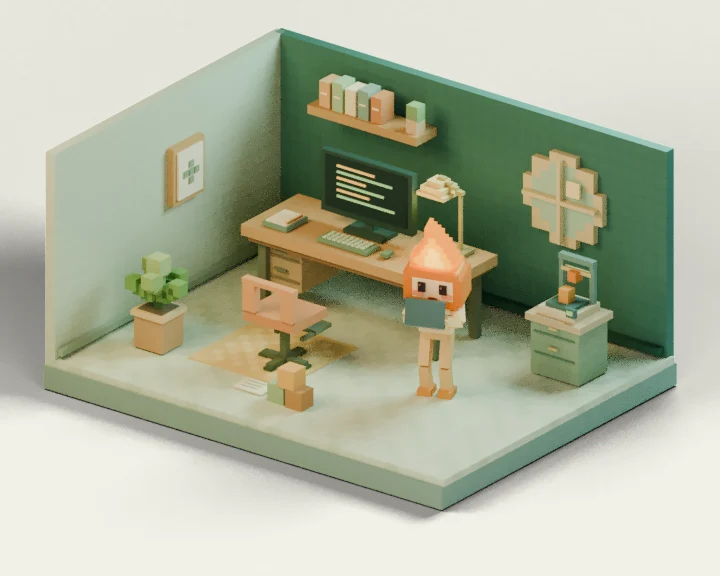
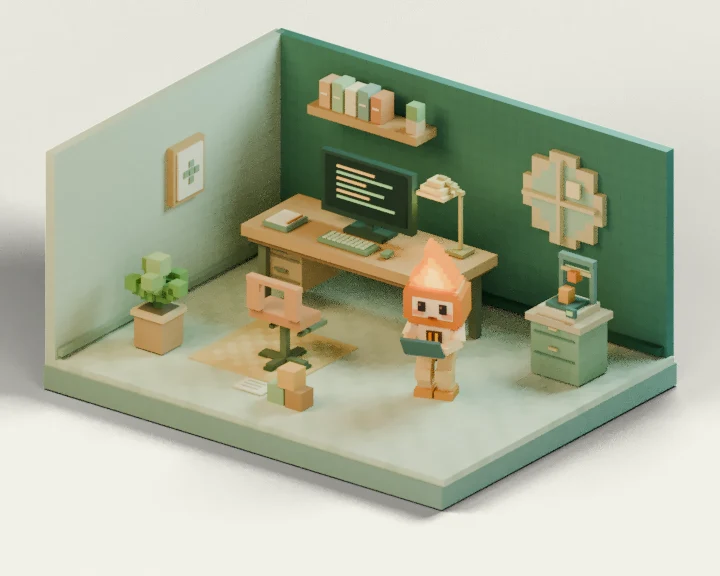
Give dot compact toy legs and verify the live actions

Changed region(s): [[0.55, 0.375, 0.6722, 0.7188], [0.3361, 0.4688, 0.4583, 0.625], [0.4583, 0.5938, 0.4889, 0.625]]

diff --git a/src/style.css b/src/style.css
@@ -1,4 +1,4 @@
-:root{font-family:Inter,ui-sans-serif,-apple-system,BlinkMacSystemFont,"Segoe UI",sans-serif;color:#243b35;background:#f3f2e9;font-synthesis:none;font-weight:400;--paper:#f3f2e9;--ink:#243b35;--muted:#586956;--line:#dcded1;--accent:#df6937;--accent-soft:#fbe6d3}*{box-sizing:border-box}body{margin:0}button,a{-webkit-tap-highlight-color:transparent}button{font:inherit;cursor:pointer;color:inherit}button:focus-visible,a:focus-visible,#scene:focus-visible{outline:3px solid var(--accent);outline-offset:5px}a{color:inherit}.site-shell{max-width:1600px;margin:auto;padding:0 max(40px,env(safe-area-inset-right)) 0 max(40px,env(safe-area-inset-left))}.site-header{height:116px;border-bottom:1px solid var(--line);display:flex;align-items:center;justify-content:space-between;gap:24px}.brand{font-size:37px;font-weight:800;letter-spacing:-2.5px;text-decoration:none;display:flex;align-items:center;gap:10px}.brand-mark{color:#dc713d;font-size:39px;font-weight:500;line-height:1}.brand-dot{color:#dc713d}.header-caption,.eyebrow,.scene-kicker,.scene-index,.activity-label,.status-overline{font-size:10px;letter-spacing:1.8px;font-weight:650}.header-caption{color:#586956;margin-left:-15px}.text-button{border:0;background:none;font-size:12px;display:flex;gap:15px;padding:13px 0}.workshop{display:grid;grid-template-columns:360px minmax(0,1fr);min-height:670px;align-items:center;gap:40px}.intro{padding:46px 0 40px}.eyebrow{color:#586956;line-height:1.6;margin:0 0 20px}.tiny-spark{color:var(--accent);margin-right:7px;font-size:14px}h1{font-size:62px;font-weight:500;line-height:1.07;letter-spacing:-3px;margin:0 0 25px}h1 em{font-family:Georgia,"Times New Roman",serif;font-weight:400;color:#7b8b61;letter-spacing:-2px}h2{font-weight:500}.intro-copy{font-size:14px;color:var(--muted);line-height:1.75;margin:0 0 30px}.status-card{border:1px solid #d7ddce;border-radius:16px;padding:22px 23px 18px;background:#fafaf3;box-shadow:0 7px 17px #30433103;max-width:330px}.status-overline{display:flex;align-items:center;gap:7px;color:#586956;font-size:9px;letter-spacing:1.3px}.status-dot{height:6px;width:6px;background:var(--accent);border-radius:50%;box-shadow:0 0 0 4px var(--accent-soft)}.status-heading{display:flex;justify-content:space-between;align-items:center;gap:10px;margin:18px 0 8px}.status-heading h2{font-size:23px;margin:0;letter-spacing:-.6px}#state-symbol{font-size:26px;color:var(--accent)}#state-description{font-size:12px;line-height:1.65;color:var(--muted);min-height:39px;margin:0}.status-divider{height:1px;background:var(--line);margin:17px 0 15px}.activity-row{display:flex;gap:10px;align-items:center;justify-content:space-between}.activity-label{font-size:8px;letter-spacing:1px;white-space:nowrap}#activity{font-size:10px;color:#586956;text-align:right}.updated{font-size:9px;color:#586956;margin:11px 0 0;line-height:1.4}.mood-note{font-size:10px;line-height:1.7;color:#586956;margin:18px 0 0}.scene-panel{min-width:0;position:relative;height:608px;margin-top:18px;display:flex;flex-direction:column}.scene-topline,.scene-bottomline{display:flex;justify-content:space-between;align-items:center;gap:15px;position:relative;z-index:2}.scene-topline{padding:9px 24px 0}.scene-kicker{font-size:9px;letter-spacing:2px;color:#586956}.scene-index{font-size:8px;letter-spacing:1.1px;color:#586956}#scene{position:relative;flex:1;min-height:0;outline-offset:0;border-radius:30px;touch-action:none;isolation:isolate;background:radial-gradient(ellipse at 50% 64%,#d3ddce70,transparent 64%)}#scene canvas{position:absolute;inset:0;width:100%;height:100%;display:block}.scene-fallback{position:absolute;inset:0;width:100%;height:100%;object-fit:contain;opacity:.9}.scene-fallback[hidden]{display:none}.load-note{position:absolute;inset:0;display:flex;justify-content:center;align-items:center;flex-direction:column;font-size:13px;color:#49604c;gap:10px;background:#f3f2e9a8;z-index:3;backdrop-filter:blur(3px);text-align:center;padding:24px}.load-note span{font-size:8px;letter-spacing:2px;color:#586956}.load-note[hidden]{display:none}.scene-bottomline{padding:0 22px 10px;color:#586956;font-size:10px}.scene-bottomline p{margin:0;line-height:1.7}.scene-bottomline p>span:first-child{font-size:15px;margin-right:8px}.dot-separator{padding:0 9px}.scene-controls{display:flex;gap:8px}.icon-button{border:1px solid #d7dccf;border-radius:50%;background:#fbfbf5;width:38px;height:38px;display:grid;place-items:center;flex-shrink:0;transition:background .2s,transform .2s;font-size:19px}.icon-button:hover{background:#e7ecdf;transform:translateY(-2px)}footer{border-top:1px solid var(--line);display:flex;align-items:center;justify-content:space-between;min-height:80px;gap:20px;font-size:10px;color:#586956;padding-bottom:env(safe-area-inset-bottom)}footer>div{display:flex;align-items:center;gap:20px}footer a{text-decoration:none}.footer-spark{color:#cf8a5d;font-size:16px}dialog{border:1px solid #d4dac9;border-radius:20px;background:#f8f8ed;color:var(--ink);max-width:540px;width:calc(100% - 32px);padding:38px;box-shadow:0 30px 100px #1d382833}dialog::backdrop{background:#17271ba8;backdrop-filter:blur(5px)}dialog h2{font-size:30px;line-height:1.2;letter-spacing:-1px;margin-bottom:25px}dialog p{font-size:13px;line-height:1.8;color:#5c6b5c}dialog .eyebrow{font-size:8px;margin-right:25px}.dialog-close{position:absolute;right:15px;top:15px}.about-links{display:flex;gap:24px}.noscript-message{position:fixed;bottom:20px;left:20px;right:20px;padding:20px;background:#fff1d4;border-radius:12px;z-index:8}body[data-state=focused]{--accent:#467d86;--accent-soft:#e3eeeb}body[data-state=checking]{--accent:#9a739b;--accent-soft:#eee4ef}body[data-state=waiting]{--accent:#6f8652;--accent-soft:#e8ecd9}body[data-state=resting]{--accent:#778398;--accent-soft:#e6e8ed}@media(min-width:1440px){.site-shell{padding-left:64px;padding-right:64px}.workshop{grid-template-columns:390px 1fr;gap:55px}.scene-panel{height:650px}.workshop{min-height:710px}h1{font-size:68px}}@media(max-width:1150px){.site-shell{padding-left:28px;padding-right:28px}.workshop{grid-template-columns:300px 1fr;gap:10px}.scene-panel{height:590px}h1{font-size:53px}.header-caption{font-size:8px}}@media(max-width:850px){.site-header{height:90px}.header-caption{display:none}.workshop{grid-template-columns:250px minmax(0,1fr);gap:0;min-height:610px}.intro{padding-top:35px}h1{font-size:45px}.eyebrow{font-size:8px;letter-spacing:1.3px}.intro-copy{font-size:12px}.status-card{padding:18px 16px}.status-heading h2{font-size:20px}.activity-row{align-items:flex-start}.activity-label{font-size:7px}.scene-panel{height:520px}.scene-topline{padding-left:20px;padding-right:0}.scene-index{display:none}.scene-bottomline{padding-left:12px;padding-right:0;align-items:flex-end}.scene-bottomline p{max-width:145px;font-size:9px}.dot-separator{display:none}.scene-controls{gap:4px}.icon-button{width:34px;height:34px}}@media(max-width:620px){.site-shell{padding-left:max(21px,env(safe-area-inset-left));padding-right:max(21px,env(safe-area-inset-right))}.site-header{height:83px}.brand{font-size:32px}.brand-mark{font-size:34px}.text-button{font-size:10px;gap:8px}.workshop{display:flex;flex-direction:column;align-items:stretch;gap:0;min-height:0}.intro{padding:34px 0 0;display:grid;grid-template-columns:1fr;position:relative}.intro .eyebrow{margin-bottom:16px}h1{font-size:53px;line-height:1.02;letter-spacing:-2.7px;margin-bottom:17px}.intro-copy{font-size:12px;margin-bottom:22px;line-height:1.65}.desktop-break{display:none}.status-card{max-width:none;padding:16px 18px;display:grid;grid-template-columns:1fr 1fr;column-gap:18px;align-items:start}.status-overline{grid-column:1/-1;font-size:8px}.status-heading{grid-column:1;margin:14px 0 5px;gap:6px}.status-heading h2{font-size:20px}#state-symbol{font-size:20px}#state-description{grid-column:1;font-size:10px;line-height:1.5;min-height:30px}.status-divider{display:none}.activity-row{grid-column:2;grid-row:2;flex-direction:column;gap:5px;margin-top:17px;padding-left:16px;border-left:1px solid var(--line)}#activity{text-align:left;font-size:9px}.updated{grid-column:2;grid-row:3;margin:3px 0 0;padding-left:16px;border-left:1px solid var(--line);font-size:8px;line-height:1.5}.mood-note{font-size:9px;line-height:1.5;margin-top:12px}.mood-note br{display:none}.scene-panel{height:420px;margin-top:24px;margin-left:-17px;margin-right:-17px}.scene-topline{padding:0 22px}.scene-index{display:block;font-size:7px}.scene-kicker{font-size:8px}.scene-bottomline{padding:0 17px 12px}.scene-bottomline p{max-width:none;font-size:9px}.dot-separator{display:inline;padding:0 4px}.scene-controls{gap:6px}footer{font-size:8px;min-height:75px;gap:15px;line-height:1.8}footer>div{gap:10px}footer .footer-spark{display:none}dialog{padding:32px 25px}dialog h2{font-size:27px}}@media(prefers-reduced-motion:reduce){*,*::before,*::after{scroll-behavior:auto!important;transition:none!important}}
+:root{font-family:Inter,ui-sans-serif,-apple-system,BlinkMacSystemFont,"Segoe UI",sans-serif;color:#243b35;background:#f3f2e9;font-synthesis:none;font-weight:400;--paper:#f3f2e9;--ink:#243b35;--muted:#586956;--line:#dcded1;--accent:#df6937;--accent-soft:#fbe6d3}*{box-sizing:border-box}body{margin:0}button,a{-webkit-tap-highlight-color:transparent}button{font:inherit;cursor:pointer;color:inherit}button:focus-visible,a:focus-visible,#scene:focus-visible{outline:3px solid var(--accent);outline-offset:5px}a{color:inherit}.site-shell{max-width:1600px;margin:auto;padding:0 max(40px,env(safe-area-inset-right)) 0 max(40px,env(safe-area-inset-left))}.site-header{height:116px;border-bottom:1px solid var(--line);display:flex;align-items:center;justify-content:space-between;gap:24px}.brand{font-size:37px;font-weight:800;letter-spacing:-2.5px;text-decoration:none;display:flex;align-items:center;gap:10px}.brand-mark{color:#dc713d;font-size:39px;font-weight:500;line-height:1}.brand-dot{color:#dc713d}.header-caption,.eyebrow,.scene-kicker,.scene-index,.activity-label,.status-overline{font-size:10px;letter-spacing:1.8px;font-weight:650}.header-caption{color:#586956;margin-left:-15px}.text-button{border:0;background:none;font-size:12px;display:flex;gap:15px;padding:13px 0}.workshop{display:grid;grid-template-columns:360px minmax(0,1fr);min-height:670px;align-items:center;gap:40px}.intro{padding:46px 0 40px}.eyebrow{color:#586956;line-height:1.6;margin:0 0 20px}.tiny-spark{color:var(--accent);margin-right:7px;font-size:14px}h1{font-size:62px;font-weight:500;line-height:1.07;letter-spacing:-3px;margin:0 0 25px}h1 em{font-family:Georgia,"Times New Roman",serif;font-weight:400;color:#7b8b61;letter-spacing:-2px}h2{font-weight:500}.intro-copy{font-size:14px;color:var(--muted);line-height:1.75;margin:0 0 30px}.status-card{border:1px solid #d7ddce;border-radius:16px;padding:22px 23px 18px;background:#fafaf3;box-shadow:0 7px 17px #30433103;max-width:330px}.status-overline{display:flex;align-items:center;gap:7px;color:#586956;font-size:9px;letter-spacing:1.3px}.status-dot{height:6px;width:6px;background:var(--accent);border-radius:50%;box-shadow:0 0 0 4px var(--accent-soft)}.status-heading{display:flex;justify-content:space-between;align-items:center;gap:10px;margin:18px 0 8px}.status-heading h2{font-size:23px;margin:0;letter-spacing:-.6px}#state-symbol{font-size:26px;color:var(--accent)}#state-description{font-size:12px;line-height:1.65;color:var(--muted);min-height:39px;margin:0}.status-divider{height:1px;background:var(--line);margin:17px 0 15px}.activity-row{display:flex;gap:10px;align-items:center;justify-content:space-between}.activity-label{font-size:8px;letter-spacing:1px;white-space:nowrap}#activity{font-size:10px;color:#586956;text-align:right}.updated{font-size:9px;color:#586956;margin:11px 0 0;line-height:1.4}.mood-note{font-size:10px;line-height:1.7;color:#586956;margin:18px 0 0}.scene-panel{min-width:0;position:relative;height:608px;margin-top:18px;display:flex;flex-direction:column}.scene-topline,.scene-bottomline{display:flex;justify-content:space-between;align-items:center;gap:15px;position:relative;z-index:2}.scene-topline{padding:9px 24px 0}.scene-kicker{font-size:9px;letter-spacing:2px;color:#586956}.scene-index{font-size:8px;letter-spacing:1.1px;color:#586956}#scene{position:relative;flex:1;min-height:0;outline-offset:0;border-radius:30px;touch-action:none;isolation:isolate;background:radial-gradient(ellipse at 50% 64%,#d3ddce70,transparent 64%)}#scene canvas{position:absolute;inset:0;width:100%;height:100%;display:block}.scene-fallback{position:absolute;inset:0;width:100%;height:100%;object-fit:contain;opacity:.9}.scene-fallback[hidden]{display:none}.load-note{position:absolute;inset:0;display:flex;justify-content:center;align-items:center;flex-direction:column;font-size:13px;color:#49604c;gap:10px;background:#f3f2e9a8;z-index:3;backdrop-filter:blur(3px);text-align:center;padding:24px}.load-note span{font-size:8px;letter-spacing:2px;color:#586956}.load-note[hidden]{display:none}.scene-bottomline{padding:0 22px 10px;color:#586956;font-size:10px}.scene-bottomline p{margin:0;line-height:1.7}.scene-bottomline p>span:first-child{font-size:15px;margin-right:8px}.dot-separator{padding:0 9px}.scene-controls{display:flex;gap:8px}.icon-button{border:1px solid #d7dccf;border-radius:50%;background:#fbfbf5;width:38px;height:38px;display:grid;place-items:center;flex-shrink:0;transition:background .2s,transform .2s;font-size:19px}.icon-button:hover{background:#e7ecdf;transform:translateY(-2px)}footer{border-top:1px solid var(--line);display:flex;align-items:center;justify-content:space-between;min-height:80px;gap:20px;font-size:10px;color:#586956;padding-bottom:env(safe-area-inset-bottom)}footer>div{display:flex;align-items:center;gap:20px}footer a{text-decoration:none}.footer-spark{color:#cf8a5d;font-size:16px}dialog{border:1px solid #d4dac9;border-radius:20px;background:#f8f8ed;color:var(--ink);max-width:540px;width:calc(100% - 32px);padding:38px;box-shadow:0 30px 100px #1d382833}dialog::backdrop{background:#17271ba8;backdrop-filter:blur(5px)}dialog h2{font-size:30px;line-height:1.2;letter-spacing:-1px;margin-bottom:25px}dialog p{font-size:13px;line-height:1.8;color:#5c6b5c}dialog .eyebrow{font-size:8px;margin-right:25px}.dialog-close{position:absolute;right:15px;top:15px}.about-links{display:flex;gap:24px}.noscript-message{position:fixed;bottom:20px;left:20px;right:20px;padding:20px;background:#fff1d4;border-radius:12px;z-index:8}body[data-state=focused]{--accent:#467d86;--accent-soft:#e3eeeb}body[data-state=checking]{--accent:#9a739b;--accent-soft:#eee4ef}body[data-state=waiting]{--accent:#6f8652;--accent-soft:#e8ecd9}body[data-state=resting]{--accent:#778398;--accent-soft:#e6e8ed}@media(min-width:1440px){.site-shell{padding-left:64px;padding-right:64px}.workshop{grid-template-columns:390px 1fr;gap:55px}.scene-panel{height:650px}.workshop{min-height:710px}h1{font-size:68px}}@media(max-width:1150px){.site-shell{padding-left:max(28px,env(safe-area-inset-left));padding-right:max(28px,env(safe-area-inset-right))}.workshop{grid-template-columns:300px 1fr;gap:10px}.scene-panel{height:590px}h1{font-size:53px}.header-caption{font-size:8px}}@media(max-width:850px){.site-header{height:90px}.header-caption{display:none}.workshop{grid-template-columns:250px minmax(0,1fr);gap:0;min-height:610px}.intro{padding-top:35px}h1{font-size:45px}.eyebrow{font-size:8px;letter-spacing:1.3px}.intro-copy{font-size:12px}.status-card{padding:18px 16px}.status-heading h2{font-size:20px}.activity-row{align-items:flex-start}.activity-label{font-size:7px}.scene-panel{height:520px}.scene-topline{padding-left:20px;padding-right:0}.scene-index{display:none}.scene-bottomline{padding-left:12px;padding-right:0;align-items:flex-end}.scene-bottomline p{max-width:145px;font-size:9px}.dot-separator{display:none}.scene-controls{gap:4px}.icon-button{width:34px;height:34px}}@media(max-width:620px){.site-shell{padding-left:max(21px,env(safe-area-inset-left));padding-right:max(21px,env(safe-area-inset-right))}.site-header{height:83px}.brand{font-size:32px}.brand-mark{font-size:34px}.text-button{font-size:10px;gap:8px}.workshop{display:flex;flex-direction:column;align-items:stretch;gap:0;min-height:0}.intro{padding:34px 0 0;display:grid;grid-template-columns:1fr;position:relative}.intro .eyebrow{margin-bottom:16px}h1{font-size:53px;line-height:1.02;letter-spacing:-2.7px;margin-bottom:17px}.intro-copy{font-size:12px;margin-bottom:22px;line-height:1.65}.desktop-break{display:none}.status-card{max-width:none;padding:16px 18px;display:grid;grid-template-columns:1fr 1fr;column-gap:18px;align-items:start}.status-overline{grid-column:1/-1;font-size:8px}.status-heading{grid-column:1;margin:14px 0 5px;gap:6px}.status-heading h2{font-size:20px}#state-symbol{font-size:20px}#state-description{grid-column:1;font-size:10px;line-height:1.5;min-height:30px}.status-divider{display:none}.activity-row{grid-column:2;grid-row:2;flex-direction:column;gap:5px;margin-top:17px;padding-left:16px;border-left:1px solid var(--line)}#activity{text-align:left;font-size:9px}.updated{grid-column:2;grid-row:3;margin:3px 0 0;padding-left:16px;border-left:1px solid var(--line);font-size:8px;line-height:1.5}.mood-note{font-size:9px;line-height:1.5;margin-top:12px}.mood-note br{display:none}.scene-panel{height:420px;margin-top:24px;margin-left:-17px;margin-right:-17px}.scene-topline{padding:0 22px}.scene-index{display:block;font-size:7px}.scene-kicker{font-size:8px}.scene-bottomline{padding:0 17px 12px}.scene-bottomline p{max-width:none;font-size:9px}.dot-separator{display:inline;padding:0 4px}.scene-controls{gap:6px}footer{font-size:8px;min-height:75px;gap:15px;line-height:1.8}footer>div{gap:10px}footer .footer-spark{display:none}dialog{padding:32px 25px}dialog h2{font-size:27px}}@media(prefers-reduced-motion:reduce){*,*::before,*::after{scroll-behavior:auto!important;transition:none!important}}
 
 /* Touch devices keep normal page scrolling until exploration is explicitly enabled. */
 #scene{touch-action:pan-y}#scene[data-interactive=true]{touch-action:none}#scene[data-interactive=false] canvas{pointer-events:none}.icon-button{min-width:44px;min-height:44px}.text-button{min-height:44px;align-items:center}.explore-button{border:1px solid #bfcab7;background:#f8f9ef;border-radius:22px;padding:9px 13px;min-height:44px;font-size:10px;white-space:nowrap}.explore-button[hidden]{display:none}.scene-controls{align-items:center}@media(max-width:620px){.scene-bottomline{align-items:center}.scene-bottomline p{max-width:135px}.scene-controls{gap:5px}.explore-button{padding:8px 10px;font-size:9px}.icon-button{width:44px;height:44px}}

diff --git a/src/character-animation.js b/src/character-animation.js
@@ -3,12 +3,12 @@ import * as THREE from 'three';
 // Original voxel art. Only this compact rig and its rolling chair are dynamic.
 // +Z is the character's forward direction. Room coordinates are metres, Y-up.
 export const CHARACTER_LAYOUT = Object.freeze({
-  floor: .12, rug: .1465, seatTop: .93, footrestTop: .55,
+  floor: .12, rug: .1465, seatTop: .93, footrestTop: .65,
   seat: {x: -.69, z: .18}, parkedChairZ: .78,
   entry: {x: -.69, z: .10}, gate: {x: .48, z: .10},
   checking: {x: 1.57, z: .32},
   walkLoop: [{x:1.55,z:.35},{x:2.12,z:.58},{x:2.13,z:1.25},{x:1.67,z:1.76},{x:1.10,z:1.29},{x:1.16,z:.64}],
-  radius: .29, speed: .46, stride: .38,
+  radius: .29, speed: .36, stride: .26,
 });
 const TAU = Math.PI * 2;
 const clamp=(v,a=0,b=1)=>Math.max(a,Math.min(b,v));
@@ -29,18 +29,19 @@ function seatedPose(state,time=0,chairZ=CHARACTER_LAYOUT.seat.z,still=false){
   const rest=state==='resting',typing=still?0:Math.sin(time*(state==='building'?8:5));
   const root={x:CHARACTER_LAYOUT.seat.x,y:1.025,z:chairZ,yaw:Math.PI};
   const pose={state,action:rest?'seated-rest':'seated-working',root,chairZ,torsoLean:rest?-.045:.22,headPitch:rest?.14:.09,headYaw:0,headRoll:rest?.04:0,blink:rest?.24:(!still&&Math.sin(time*.73)>.997?.12:1),flame:rest?.74:1+(still?0:Math.sin(time*3)*.018),laptop:0};
-  pose.feet=[-1,1].map(side=>world(root,side*.145,.60,.535));
-  pose.knees=[-1,1].map(side=>world(root,side*.145,1.015,.51));
-  pose.hands=rest?[-1,1].map(side=>world(root,side*.24,1.12,.15)):[-1,1].map(side=>world(root,side*.18,1.494+(side*typing)*.008,.76+(side*typing)*.006));
+  pose.feet=[-1,1].map(side=>world(root,side*.145,.73,.365));
+  pose.knees=[-1,1].map(side=>world(root,side*.145,1.025,.335));
+  pose.hands=rest?[-1,1].map(side=>world(root,side*.24,1.12,.15)):[-1,1].map(side=>world(root,side*.18,1.494+Math.max(0,side*typing)*.038,.76+(side*typing)*.006));
   pose.elbows=[-1,1].map(side=>world(root,side*.37,rest?1.22:1.48,rest?.03:.38));
   return pose;
 }
 function standingPose(state,root,time=0,still=false){
-  const p={state,action:state==='checking'?'laptop-check':'standing-pause',root:{...root,y:groundHeight(root.x,root.z)+.95},chairZ:CHARACTER_LAYOUT.parkedChairZ,torsoLean:state==='checking'?.04:0,headPitch:state==='checking'?.19:0,headYaw:state==='waiting'?(still?.14:Math.sin(time*.6)*.18):0,headRoll:state==='checking'?-.045:0,blink:!still&&Math.sin(time*.73)>.997?.12:1,flame:1+(still?0:Math.sin(time*3)*.018),laptop:state==='checking'?1:0};
-  p.feet=[-1,1].map(side=>{const foot=world(p.root,side*.145,0,.025);foot.y=groundHeight(foot.x,foot.z)+.05;return foot;});
+  const p={state,action:state==='checking'?'laptop-check':'standing-pause',root:{...root,y:groundHeight(root.x,root.z)+.66},chairZ:CHARACTER_LAYOUT.parkedChairZ,torsoLean:state==='checking'?.04:0,headPitch:state==='checking'?.19:0,headYaw:state==='waiting'?(still?.14:Math.sin(time*.6)*.18):state==='checking'&&!still?Math.sin(time*.65)*.045:0,headRoll:state==='checking'?-.045:0,blink:!still&&Math.sin(time*.73)>.997?.12:1,flame:1+(still?0:Math.sin(time*3)*.018),laptop:state==='checking'?1:0};
+  p.feet=[-1,1].map(side=>{const foot=world(p.root,side*.145,0,.025);foot.y=groundHeight(foot.x,foot.z)+.08;return foot;});
   p.knees=p.feet.map((foot,i)=>pointMix(world(p.root,(i?1:-1)*.145,p.root.y,0),foot,.47));
-  p.hands=[-1,1].map(side=>world(p.root,side*(state==='checking'?.245:.34),p.root.y+(state==='checking'?.34:.07),state==='checking'?.47:.035));
+  p.hands=[-1,1].map(side=>world(p.root,side*(state==='checking'?.245:.34),p.root.y+(state==='checking'?.215:.07),state==='checking'?.47:.035));
   p.elbows=[-1,1].map(side=>world(p.root,side*.36,p.root.y+.22,state==='checking'?.19:.015));
+  if(state==='checking'&&!still){const tap=Math.pow(Math.max(0,Math.sin(time*2.2)),4);p.hands[1].y+=tap*.025;p.headPitch+=Math.sin(time*.65+.6)*.018;}
   solveLegs(p);return p;
 }
 
@@ -57,8 +58,8 @@ export function sampleCharacterPose(state,time=0,{reducedMotion=false}={}){
   while(d>lengths[idx]&&idx<lengths.length-1)d-=lengths[idx++];
   const a=loop[idx],b=loop[(idx+1)%loop.length],u=d/lengths[idx],root={x:mix(a.x,b.x,u),z:mix(a.z,b.z,u),yaw:Math.atan2(b.x-a.x,b.z-a.z)};
   const pose=standingPose(state,root,time);pose.action='walking';
-  const stride=Math.sin((phase-3)*TAU*1.25),lift=Math.max(0,stride)*.105;
-  pose.feet.forEach((f,i)=>{const sign=i===0?1:-1,step=world(pose.root,sign*-.145,0,sign*stride*.14);f.x=step.x;f.z=step.z;f.y=groundHeight(f.x,f.z)+.05+(i===0?lift:Math.max(0,-stride)*.105);});
+  const stride=Math.sin((phase-3)*TAU*1.25),lift=Math.max(0,stride)*.07;
+  pose.feet.forEach((f,i)=>{const sign=i===0?1:-1,step=world(pose.root,sign*-.145,0,sign*stride*.09);f.x=step.x;f.z=step.z;f.y=groundHeight(f.x,f.z)+.08+(i===0?lift:Math.max(0,-stride)*.07);});
   solveLegs(pose);pose.hands.forEach((hand,i)=>{const h=world(pose.root,(i?1:-1)*.34,pose.root.y+.07,(i?1:-1)*stride*.13);Object.assign(hand,h);});
   return pose;
 }
@@ -67,8 +68,8 @@ function solveLegs(pose){
   // forward; lengths stay constant instead of telescoping during each step.
   pose.knees=pose.feet.map((foot,i)=>{
     const hip=world(pose.root,(i?1:-1)*.145,pose.root.y,0),dx=foot.x-hip.x,dy=foot.y-hip.y,dz=foot.z-hip.z;
-    const raw=Math.hypot(dx,dy,dz),d=Math.min(.9299,Math.max(.091,raw)),ux=dx/raw,uy=dy/raw,uz=dz/raw;
-    const along=(.51*.51-.42*.42+d*d)/(2*d),height=Math.sqrt(Math.max(0,.51*.51-along*along));
+    const raw=Math.hypot(dx,dy,dz),d=Math.min(.6349,Math.max(.036,raw)),ux=dx/raw,uy=dy/raw,uz=dz/raw;
+    const along=(.335*.335-.30*.30+d*d)/(2*d),height=Math.sqrt(Math.max(0,.335*.335-along*along));
     const fx=Math.sin(pose.root.yaw),fz=Math.cos(pose.root.yaw),dot=fx*ux+fz*uz;
     let px=fx-dot*ux,py=-dot*uy,pz=fz-dot*uz;const plen=Math.hypot(px,py,pz)||1;px/=plen;py/=plen;pz/=plen;
     return V(hip.x+ux*along+px*height,hip.y+uy*along+py*height,hip.z+uz*along+pz*height);
@@ -79,7 +80,16 @@ function blendPose(a,b,t){
   for(const key of ['chairZ','torsoLean','headPitch','headYaw','headRoll','blink','flame','laptop'])out[key]=mix(a[key],b[key],t);
   for(const key of ['feet','knees','hands','elbows'])out[key]=a[key].map((v,i)=>pointMix(v,b[key][i],t));
   const transfer=(a.action.startsWith('seated')&&!b.action.startsWith('seated'))||(!a.action.startsWith('seated')&&b.action.startsWith('seated'));
-  if(transfer){const rise=Math.sin(t*Math.PI)*.20;out.root.y+=rise;out.hands.forEach(v=>v.y+=rise);out.elbows.forEach(v=>v.y+=rise);solveLegs(out);}
+  if(transfer){
+    // Lift from the footrest before moving over the lip, then lower onto the
+    // floor. Reversing this path seats the toy without stretching its legs.
+    const leaving=a.action.startsWith('seated'),u=leaving?t:1-t,seat=leaving?a:b,stand=leaving?b:a;
+    const raised=seat.root.y+.075;
+    const y=u<.2?mix(seat.root.y,raised,smooth(u/.2)):u<.5?raised:mix(raised,stand.root.y,smooth((u-.5)/.5));
+    const offset=y-out.root.y;out.root.y=y;out.hands.forEach(v=>v.y+=offset);out.elbows.forEach(v=>v.y+=offset);
+    const footProgress=smooth((u-.2)/.8);out.feet.forEach((foot,i)=>{foot.y=mix(seat.feet[i].y,stand.feet[i].y,footProgress);});
+    solveLegs(out);
+  }
   out.action=t<1?'transition':b.action;return out;
 }
 
@@ -93,8 +103,8 @@ function blockSkin(x,y,z,w,h,d,color,unit=.075){
   for(let i=0;i<nx;i++)for(let j=0;j<ny;j++)for(let k=0;k<nz;k++){if(i&&j&&k&&i<nx-1&&j<ny-1&&k<nz-1)continue;result.push([x-w/2+(i+.5)*w/nx,y-h/2+(j+.5)*h/ny,z-d/2+(k+.5)*d/nz,w/nx*.985,h/ny*.985,d/nz*.985,color]);}return result;
 }
 function group(parent,name){const g=new THREE.Group();g.name=name;parent.add(g);return g;}
-function limb(parent,name,width,depth,color){const g=group(parent,name);boxes(g,blockSkin(0,.5,0,width,1,depth,color,.13));return g;}
-function segment(g,a,b){const start=new THREE.Vector3(a.x,a.y,a.z),end=new THREE.Vector3(b.x,b.y,b.z),dir=end.sub(start);g.position.copy(start);g.quaternion.setFromUnitVectors(new THREE.Vector3(0,1,0),dir.clone().normalize());g.scale.set(1,dir.length(),1);}
+function limb(parent,name,width,depth,color,length=1){const g=group(parent,name);g.userData.restLength=length;boxes(g,blockSkin(0,length/2,0,width,length,depth,color,length<1?.07:.13));return g;}
+function segment(g,a,b){const start=new THREE.Vector3(a.x,a.y,a.z),end=new THREE.Vector3(b.x,b.y,b.z),dir=end.sub(start);g.position.copy(start);g.quaternion.setFromUnitVectors(new THREE.Vector3(0,1,0),dir.clone().normalize());g.scale.set(1,dir.length()/(g.userData.restLength||1),1);}
 
 export function createVoxelCharacter(parent){
   const mascot=group(parent,'dot'),body=group(mascot,'dot-body'),pelvis=group(mascot,'dot-pelvis');
@@ -108,21 +118,21 @@ export function createVoxelCharacter(parent){
   rows.forEach(([lo,hi],row)=>{for(let x=lo;x<=hi;x++)for(let z=-2;z<=2;z++){let c=x===lo||x===hi||row>10?0xf18c25:0xffbb32;if(row<7&&x>=-2+Math.floor(row/4)&&x<=2-Math.floor(row/3))c=0xffe16a;flames.push([x*.053,.32+row*.045,z*.055,.052,.044,.054,c]);}});boxes(flame,flames,{emissive:true});
   const arms=[-1,1].map(side=>({upper:limb(mascot,`dot-${side<0?'left':'right'}-upper-arm`,.135,.15,0xffdaa0),lower:limb(mascot,`dot-${side<0?'left':'right'}-forearm`,.125,.14,0xf4c982),hand:group(mascot,`dot-${side<0?'left':'right'}-hand`)}));
   arms.forEach(a=>boxes(a.hand,blockSkin(0,0,.015,.15,.09,.16,0xf4c982)));
-  const legs=[-1,1].map(side=>({upper:limb(mascot,`dot-${side<0?'left':'right'}-thigh`,.15,.17,0xe8ba78),lower:limb(mascot,`dot-${side<0?'left':'right'}-shin`,.145,.16,0xe8ba78),foot:group(mascot,`dot-${side<0?'left':'right'}-boot`)}));
-  legs.forEach(l=>boxes(l.foot,[[0,0,.015,.20,.10,.26,0xd89446]]));
+  const legs=[-1,1].map(side=>({upper:limb(mascot,`dot-${side<0?'left':'right'}-thigh`,.215,.18,0xe8ba78,.335),lower:limb(mascot,`dot-${side<0?'left':'right'}-shin`,.195,.19,0xf0c78c,.30),knee:group(mascot,`dot-${side<0?'left':'right'}-knee`),foot:group(mascot,`dot-${side<0?'left':'right'}-boot`)}));
+  legs.forEach(l=>{boxes(l.knee,[[0,0,0,.225,.17,.21,0xe9bd7c]]);boxes(l.foot,[[0,-.025,.04,.26,.11,.31,0xd89446],[0,.045,-.005,.22,.07,.22,0xedb968]]);});
   const chair=group(parent,'dot-chair');chair.position.x=CHARACTER_LAYOUT.seat.x;
-  boxes(chair,[...blockSkin(0,.86,0,.87,.14,.76,0xc78957,.15),...blockSkin(-.32,1.16,.34,.21,.43,.13,0xd29560,.14),...blockSkin(.32,1.16,.34,.21,.43,.13,0xd29560,.14),[0,1.39,.34,.87,.07,.13,0xd29560],[0,.50,0,.10,.58,.10,0x6f7a55],[0,.20,0,.72,.07,.11,0x63714d],[0,.20,0,.11,.07,.72,0x63714d],...[[ -.34,0],[.34,0],[0,-.34],[0,.34]].map(([x,z])=>[x,.13,z,.13,.12,.13,0x48633f]),[0,.52,-.52,.54,.06,.35,0x778661],[-.22,.50,-.31,.07,.05,.44,0x6f7a55],[.22,.50,-.31,.07,.05,.44,0x6f7a55]]);
+  boxes(chair,[...blockSkin(0,.86,0,.87,.14,.48,0xc78957,.15),...blockSkin(-.32,1.16,.24,.21,.43,.13,0xd29560,.14),...blockSkin(.32,1.16,.24,.21,.43,.13,0xd29560,.14),[0,1.39,.24,.87,.07,.13,0xd29560],[0,.50,0,.10,.58,.10,0x6f7a55],[0,.20,0,.72,.07,.11,0x63714d],[0,.20,0,.11,.07,.72,0x63714d],...[[ -.34,0],[.34,0],[0,-.34],[0,.34]].map(([x,z])=>[x,.13,z,.13,.12,.13,0x48633f]),[0,.62,-.38,.60,.06,.36,0x778661],[-.24,.60,-.20,.07,.05,.40,0x6f7a55],[.24,.60,-.20,.07,.05,.40,0x6f7a55]]);
   const laptop=group(mascot,'dot-laptop'),lid=group(laptop,'dot-laptop-lid');
   boxes(laptop,[[0,0,0,.56,.045,.36,0x667b70],[0,.026,0,.49,.012,.29,0xbbc6ac],...Array.from({length:5},(_,i)=>[-.18+i*.09,.035,-.025,.055,.011,.12,0x718673]),[0,.036,.095,.14,.01,.07,0x91a08a]]);
-  lid.position.set(0,.01,.17);lid.rotation.x=-.23;boxes(lid,[[0,.18,0,.56,.36,.045,0x4c685b],[0,.18,-.028,.48,.28,.014,0x1c392d],[-.05,.245,-.04,.29,.026,.01,0xc4e5b7],[.015,.19,-.04,.36,.019,.01,0xe3c17d],[-.09,.14,-.04,.21,.019,.01,0xa7cda1]]);
+  lid.position.set(0,.01,.17);lid.rotation.x=.55;boxes(lid,[[0,.18,0,.56,.36,.045,0x4c685b],[0,.18,-.028,.48,.28,.014,0x1c392d],[-.05,.245,-.04,.29,.026,.01,0xc4e5b7],[.015,.19,-.04,.36,.019,.01,0xe3c17d],[-.09,.14,-.04,.21,.019,.01,0xa7cda1]]);
   const rig={mascot,body,pelvis,head,eyes,flame,arms,legs,chair,laptop,leftArm:arms[0].upper,rightArm:arms[1].upper};rig.controller=new CharacterController(rig);return rig;
 }
 export function applyCharacterPose(rig,p){
   const {mascot,body,head,eyes,flame,arms,legs,chair,laptop}=rig;mascot.position.set(p.root.x,p.root.y,p.root.z);mascot.rotation.y=p.root.yaw;body.rotation.x=p.torsoLean;
   head.position.set(0,.735,Math.sin(p.torsoLean)*.63);head.rotation.set(p.headPitch,p.headYaw,p.headRoll);eyes.scale.y=p.blink;flame.scale.y=p.flame;chair.position.z=p.chairZ;
   arms.forEach((arm,i)=>{const side=i?1:-1,start=V(side*.29,.425,Math.sin(p.torsoLean)*.42),elbow=local(p.root,p.elbows[i]),hand=local(p.root,p.hands[i]);segment(arm.upper,start,elbow);segment(arm.lower,elbow,hand);arm.hand.position.set(hand.x,hand.y,hand.z);arm.hand.rotation.x=p.laptop?-.05:.15;});
-  legs.forEach((leg,i)=>{const start=V((i?1:-1)*.145,0,0),knee=local(p.root,p.knees[i]),foot=local(p.root,p.feet[i]);segment(leg.upper,start,knee);segment(leg.lower,knee,foot);leg.foot.position.set(foot.x,foot.y,foot.z);});
-  laptop.visible=p.laptop>.005;laptop.scale.setScalar(Math.max(.001,p.laptop));laptop.position.set(0,.325,.45);laptop.rotation.x=.08;
+  legs.forEach((leg,i)=>{const start=V((i?1:-1)*.145,0,0),knee=local(p.root,p.knees[i]),foot=local(p.root,p.feet[i]);segment(leg.upper,start,knee);segment(leg.lower,knee,foot);leg.knee.position.set(knee.x,knee.y,knee.z);leg.foot.position.set(foot.x,foot.y,foot.z);});
+  laptop.visible=p.laptop>.005;laptop.scale.setScalar(Math.max(.001,p.laptop));laptop.position.set(0,.18,.45);laptop.rotation.x=.08;
   mascot.updateMatrixWorld(true);rig.pose=p;
 }
 
@@ -159,13 +169,18 @@ export class CharacterController {
     this.travel+=step;const p=standingPose(this.state,root,this.time);p.action='walking';p.laptop=0;
     // Two alternating stance/swing feet. Planted feet remain fixed in world space
     // throughout contact; only the swinging boot follows its next footprint.
-    if(!this.feet)this.feet=this.pose.feet.map((point,i)=>{const cycle=this.travel/CHARACTER_LAYOUT.stride+i*.5,phase=cycle-Math.floor(cycle);const to=phase<.5?world({...root,yaw},(i?1:-1)*.145,0,.17):{...point};to.y=groundHeight(to.x,to.z)+.05;return{point:{...point},from:{...point},to,cycle:Math.floor(cycle)};});
+    if(!this.feet)this.feet=this.pose.feet.map((point,i)=>{const cycle=this.travel/CHARACTER_LAYOUT.stride+i*.5,phase=cycle-Math.floor(cycle);const to=phase<.5?world({...root,yaw},(i?1:-1)*.145,0,.105):{...point};to.y=groundHeight(to.x,to.z)+.08;return{point:{...point},from:{...point},to,cycle:Math.floor(cycle)};});
     this.feet.forEach((foot,i)=>{
       const cycle=this.travel/CHARACTER_LAYOUT.stride+i*.5,whole=Math.floor(cycle),phase=cycle-whole;
-      if(foot.cycle!==whole){foot.cycle=whole;foot.from={...foot.point};const next=world({...root,yaw},(i?1:-1)*.145,0,.17);next.y=groundHeight(next.x,next.z)+.05;foot.to=next;}
-      if(phase<.5){foot.point=pointMix(foot.from,foot.to,smooth(phase*2));foot.point.y+=Math.sin(phase*2*Math.PI)*.11;}else foot.point={...foot.to};
+      if(foot.cycle!==whole){foot.cycle=whole;foot.from={...foot.point};const next=world({...root,yaw},(i?1:-1)*.145,0,.105);next.y=groundHeight(next.x,next.z)+.08;foot.to=next;}
+      if(phase<.5){foot.point=pointMix(foot.from,foot.to,smooth(phase*2));foot.point.y+=Math.sin(phase*2*Math.PI)*.07;}else foot.point={...foot.to};
       p.feet[i]={...foot.point};
-    });solveLegs(p);
+    });
+    // A small knee flex at a turn keeps planted feet reachable with compact
+    // limbs. Never elongate a shin merely because the body turns first.
+    const previousY=p.root.y;
+    p.feet.forEach((foot,i)=>{const hip=world(p.root,(i?1:-1)*.145,p.root.y,0),horizontal=Math.hypot(foot.x-hip.x,foot.z-hip.z);p.root.y=Math.min(p.root.y,foot.y+Math.sqrt(Math.max(.01,.631*.631-horizontal*horizontal)));});
+    p.elbows.forEach(v=>v.y+=p.root.y-previousY);solveLegs(p);
     const swing=Math.sin(this.travel/CHARACTER_LAYOUT.stride*TAU);p.hands.forEach((h,i)=>Object.assign(h,world(p.root,(i?1:-1)*.34,p.root.y+.07,(i?1:-1)*swing*.12)));
     this.pose=p;if(d<=step+.0001){r.index++;if(r.index>=r.points.length){this.route=null;this.feet=null;const settled=standingPose(this.state,{...p.root},this.time);settled.laptop=0;this.tween(settled,.18,()=>r.onEnd?.());}}
   }

diff --git a/tests/browser/workshop.spec.js b/tests/browser/workshop.spec.js
@@ -10,6 +10,10 @@ async function ready(page){
   await expect(page.locator('body')).toHaveAttribute('data-scene-ready','true');
   await expect(page.locator('body')).toHaveAttribute('data-model','voxel');
 }
+async function actionMatches(page,state){
+  const actions={building:/^seated-working$/,focused:/^seated-working$/,checking:/^laptop-check$/,waiting:/^(standing-pause|walking)$/,resting:/^seated-rest$/};
+  await expect(page.locator('#scene')).toHaveAttribute('data-action',actions[state],{timeout:2000});
+}
 async function readOnlyView(page){
   await expect(page.locator('.state-option,.states-section,#return-button,#preview-label,button[data-state],select[data-state]')).toHaveCount(0);
   await expect(page.locator('body')).not.toContainText('Every state has a spark');
@@ -19,7 +23,8 @@ async function readOnlyView(page){
 async function touchTargets(page){
   for(const target of await page.locator('button:visible,a:visible').all()){
     const bounds=await target.boundingBox();const label=await target.innerText();
-    expect(bounds.width,label).toBeGreaterThanOrEqual(44);expect(bounds.height,label).toBeGreaterThanOrEqual(44);
+    // Tolerate only sub-thousandth-pixel browser layout rounding.
+    expect(bounds.width+.001,label).toBeGreaterThanOrEqual(44);expect(bounds.height+.001,label).toBeGreaterThanOrEqual(44);
   }
 }
 async function visitorCopy(page){
@@ -34,7 +39,7 @@ for(const [name,width,height,touch] of [['desktop',1440,1000,false],['ipad',768,
     const page=await context.newPage();const errors=[];page.on('pageerror',error=>errors.push(error.message));await fixture(page);
     await page.goto('/');await ready(page);await readOnlyView(page);await visitorCopy(page);
     await expect(page.locator('#status-source')).toHaveText('SHARED MOOD');
-    await expect(page.locator('#state-title')).toHaveText(STATES.checking.title);
+    await expect(page.locator('#state-title')).toHaveText(STATES.checking.title);await actionMatches(page,'checking');
     await expect(page.locator('.activity-label')).toHaveText('What I’m doing');
     await expect(page.locator('#updated-at')).toContainText('Last updated');
     await expect(page.locator('#updated-at')).toHaveAttribute('title',`Last updated: ${timestamp}`);
@@ -61,7 +66,7 @@ test('all five states arrive only through the read-only published feed',async({b
     if(revision){current=status(state,revision+1,new Date(Date.parse(timestamp)+revision*60000).toISOString());await page.clock.fastForward(31000);}
     await expect(page.locator('body')).toHaveAttribute('data-state',state);await expect(page.locator('#state-title')).toHaveText(STATES[state].title);
     await expect(page.locator('#status-source')).toHaveText('SHARED MOOD');await expect(page.locator('#updated-at')).toHaveAttribute('title',`Last updated: ${current.updatedAt}`);
-    await readOnlyView(page);await page.clock.runFor(64);await page.screenshot({path:`qa/published-${state}-375.png`,fullPage:true});revision++;
+    await readOnlyView(page);await page.clock.runFor(64);await actionMatches(page,state);await page.screenshot({path:`qa/published-${state}-375.png`,fullPage:true});revision++;
   }
   expect(writes).toEqual([]);await context.close();
 });
@@ -78,7 +83,7 @@ test('WebGL unavailable shows the matching still image for all published moods',
   for(const state of ['waiting','building','focused','checking','resting']){
     if(revision>1){current=status(state,revision);await page.clock.fastForward(31000);}
     await expect(page.locator('#state-title')).toHaveText(STATES[state].title);
-    await expect(page.locator('#scene-fallback')).toHaveAttribute('src',new RegExp(`workshop-${state}\\.webp$`));
+    await expect(page.locator('#scene-fallback')).toHaveAttribute('src',new RegExp(`workshop-${state}\\.webp(?:\\?v=${current.revision})?$`));
     await expect.poll(()=>page.locator('#scene-fallback').evaluate(image=>image.complete&&image.naturalWidth>0)).toBe(true);
     await readOnlyView(page);await visitorCopy(page);await page.screenshot({path:`qa/fallback-${state}.png`,fullPage:true});revision++;
   }

diff --git a/tests/production/workshop.spec.js b/tests/production/workshop.spec.js
@@ -13,18 +13,20 @@ for(const [name,width,height,touch] of [['desktop',1440,1000,false],['phone',375
     const responsePromise=page.waitForResponse(response=>response.url().startsWith('https://raw.githubusercontent.com/mzbac/dots/main/public/status.json')&&response.ok(),{timeout:45000});
     await page.goto(url.toString(),{waitUntil:'domcontentloaded'});const feedResponse=await responsePromise;
     const published=validateStatus(await feedResponse.json());
+    const expectedActions={building:/^seated-working$/,focused:/^seated-working$/,checking:/^laptop-check$/,waiting:/^(standing-pause|walking)$/,resting:/^seated-rest$/};
     await expect(page.locator('body')).toHaveAttribute('data-scene-ready','true',{timeout:45000});
     await expect(page.locator('body')).toHaveAttribute('data-model','voxel');
     await expect(page.locator('#scene-fallback')).toBeHidden();await expect(page.locator('#scene canvas')).toBeVisible();await expect(page.getByRole('button',{name:'Pause animation',exact:true})).toBeVisible();
     await expect(page.locator('#status-source')).toHaveText('SHARED MOOD');
     await expect(page.locator('#state-title')).toHaveText(STATES[published.state].title);
     await expect(page.locator('#updated-at')).toHaveAttribute('title',`Last updated: ${published.updatedAt}`);
+    await expect(page.locator('#scene')).toHaveAttribute('data-action',expectedActions[published.state],{timeout:2000});
     await expect(page.locator('#updated-at')).toContainText('Last updated');await expect(page.locator('.activity-label')).toHaveText('What I’m doing');
     await expect(page.locator('.state-option,.states-section,#return-button,#preview-label,button[data-state],select[data-state]')).toHaveCount(0);
     const copy=await page.locator('body').innerText();expect(copy).not.toMatch(/\b(voxel|hunyuan|blender|webgl|javascript|three\.js)\b|Every state has a spark|Try a different rhythm/i);
     expect(await page.evaluate(()=>document.documentElement.scrollWidth<=innerWidth)).toBe(true);expect(errors).toEqual([]);expect(writes).toEqual([]);
     mkdirSync('qa-production',{recursive:true});await page.screenshot({path:`qa-production/live-${name}.png`,fullPage:true});const frameOne=await page.locator('#scene canvas').screenshot({path:`qa-production/live-${name}-scene.png`});await page.waitForTimeout(1200);const frameTwo=await page.locator('#scene canvas').screenshot({path:`qa-production/live-${name}-scene-motion.png`});const framesDiffer=Buffer.compare(frameOne,frameTwo)!==0;expect(framesDiffer,'The live scene should continue moving').toBe(true);
-    writeFileSync(`qa-production/live-${name}-verification.json`,JSON.stringify({url:page.url(),expectedDeploymentCommit:process.env.GITHUB_SHA||null,viewport:{width,height},webglRendered:true,published:{state:published.state,revision:published.revision,updatedAt:published.updatedAt},displayedTitle:await page.locator('#state-title').innerText(),displayedTimestamp:await page.locator('#updated-at').getAttribute('title'),noMoodSelectors:true,motionEnabled:true,framesDiffer,statusWriteRequests:writes,errors},null,2));
+    writeFileSync(`qa-production/live-${name}-verification.json`,JSON.stringify({url:page.url(),expectedDeploymentCommit:process.env.GITHUB_SHA||null,viewport:{width,height},webglRendered:true,published:{state:published.state,revision:published.revision,updatedAt:published.updatedAt},displayedTitle:await page.locator('#state-title').innerText(),displayedTimestamp:await page.locator('#updated-at').getAttribute('title'),noMoodSelectors:true,renderedAction:await page.locator('#scene').getAttribute('data-action'),motionEnabled:true,framesDiffer,statusWriteRequests:writes,errors},null,2));
     await context.close();
   });
 }

diff --git a/index.html b/index.html
@@ -34,7 +34,7 @@
         <div class="scene-panel">
           <div class="scene-topline"><span class="scene-kicker">THE LITTLE WORKSHOP</span></div>
           <div id="scene" tabindex="0" role="img" aria-label="Interactive miniature workshop. Drag or use arrow keys to orbit. Plus and minus zoom. Press Home to reset." aria-describedby="scene-instructions">
-            <img class="scene-fallback" id="scene-fallback" src="./assets/workshop-focused.webp" alt="dot sits at the desk, concentrating on the screen" />
+            <img class="scene-fallback" id="scene-fallback" src="./assets/workshop-focused.webp?v=6" alt="dot sits at the desk, concentrating on the screen" />
             <div class="load-note" id="load-note" role="status">Turning on the little lights<span>MAKE YOURSELF AT HOME</span></div>
           </div>
           <div class="scene-bottomline"><p id="scene-instructions"><span aria-hidden="true">↔</span> Drag to look around <span class="dot-separator">·</span> Pinch to get closer</p><div class="scene-controls"><button id="explore-button" class="explore-button" hidden>Explore</button><button id="motion-button" class="icon-button" aria-label="Pause animation" title="Pause animation"><span aria-hidden="true">Ⅱ</span></button><button id="reset-button" class="icon-button" aria-label="Reset view" title="Reset view"><span aria-hidden="true">↺</span></button></div></div>

diff --git a/src/scene.js b/src/scene.js
@@ -106,6 +106,8 @@ export async function createWorkshop(host,callbacks){
     screen.material.emissive.set(STATES[state].screen);screen.material.emissiveIntensity=resting?.05:.2;
     for(let i=0;i<6;i++){const phase=(t*.2+i/6)%1;sparkTransform.position.set(flameTip.x+Math.sin(i*6+t*.3)*(.12+phase*.15),flameTip.y+phase*.3,flameTip.z+Math.cos(i*3)*.1);sparkTransform.scale.setScalar(waiting?0:.045*Math.sin(phase*Math.PI)*(resting?.15:1));sparkTransform.updateMatrix();sparks.setMatrixAt(i,sparkTransform.matrix);}sparks.instanceMatrix.needsUpdate=true;
     renderer.render(scene,camera);
+    if(host.dataset.action!==rig.pose.action)host.dataset.action=rig.pose.action;
+    host.dataset.renderedState=state;
   });
   renderer.render(scene,camera);callbacks.onLoaded();
   return{setState(next){if(STATES[next]&&(!initialStateApplied||next!==state)){state=next;rig.controller.setState(next,{immediate:paused||!initialStateApplied});initialStateApplied=true;dirty=true;}},setPaused(value){paused=value;dirty=true;},setInteractive(value){controls.enabled=value;renderer.domElement.style.touchAction=value?'none':'pan-y';dirty=true;},reset,getDiagnostics(){return{state,paused,model:'voxel',character:rig.controller.getDiagnostics(),drawCalls:renderer.info.render.calls,triangles:renderer.info.render.triangles};}};

diff --git a/src/main.js b/src/main.js
@@ -18,7 +18,7 @@ function syncInteraction(){
 const stillDescriptions={building:'dot sits at the desk, typing at the keyboard',focused:'dot sits at the desk, concentrating on the screen',checking:'dot looks closely at a laptop',waiting:'dot takes a thoughtful walk around the room',resting:'dot rests quietly in the chair'};
 function syncStillView(){
   if(!snapshot)return;
-  const path=`${import.meta.env.BASE_URL}assets/workshop-${snapshot.state}.webp`;
+  const path=`${import.meta.env.BASE_URL}assets/workshop-${snapshot.state}.webp?v=${snapshot.revision}`;
   if($('scene-fallback').getAttribute('src')!==path)$('scene-fallback').setAttribute('src',path);
   $('scene-fallback').setAttribute('alt',stillDescriptions[snapshot.state]);
   if(document.body.dataset.sceneReady==='fallback')$('scene').setAttribute('aria-label',`${stillDescriptions[snapshot.state]}. A still view of the workshop.`);
